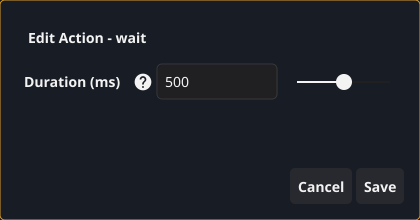
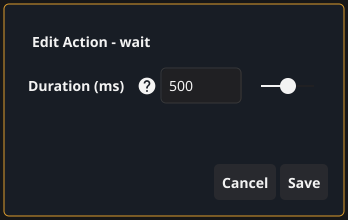
docs: expand README with action dialog screenshots
Regenerate UI doc images and document each action type's edit panel in the
README. Seed demo program data for doc UI tests.

diff --git a/internal/testsupport/docui.go b/internal/testsupport/docui.go
@@ -1,6 +1,7 @@
 package testsupport
 
 import (
+	"Sqyre/internal/config"
 	"Sqyre/internal/models"
 	"Sqyre/internal/models/actions"
 	"Sqyre/internal/models/repositories"
@@ -49,6 +50,21 @@ func InitDocUIEnv(t *testing.T) {
 
 	demoProgram := programRepo.New()
 	demoProgram.Name = "Demo Program"
+	demoProgram.Items["demo-item"] = &models.Item{
+		Name:     "demo-item",
+		GridSize: [2]int{1, 1},
+		StackMax: 1,
+	}
+	if coords := demoProgram.Coordinates[config.MainMonitorSizeString]; coords != nil {
+		coords.Points["center"] = &models.Point{Name: "center", X: 500, Y: 300}
+		coords.SearchAreas["Main area"] = &models.SearchArea{
+			Name:    "Main area",
+			LeftX:   100,
+			TopY:    100,
+			RightX:  900,
+			BottomY: 600,
+		}
+	}
 	if err := programRepo.Set("Demo Program", demoProgram); err != nil {
 		t.Fatalf("set demo program: %v", err)
 	}

diff --git a/README.md b/README.md
@@ -47,9 +47,20 @@ Screenshots and GIFs are generated from automated UI tests. Regenerate with:
 
 ![Sqyre main screen](docs/images/main-window.png)
 
-### Wait action dialog
+### Add action picker
 
-![Sqyre wait action dialog](docs/images/action-dialog-wait.png)
+![Sqyre add action picker](docs/images/add-action-picker.png)
+
+### Action dialogs
+
+Each action type has its own edit panel:
+
+| Category | Actions |
+|----------|---------|
+| Mouse & Keyboard | [Move](docs/images/action-dialog-move.png) · [Click](docs/images/action-dialog-click.png) · [Key](docs/images/action-dialog-key.png) · [Type](docs/images/action-dialog-type.png) |
+| Detection | [Image Search](docs/images/action-dialog-imagesearch.png) · [OCR](docs/images/action-dialog-ocr.png) · [Find pixel](docs/images/action-dialog-findpixel.png) |
+| Variables | [Set](docs/images/action-dialog-setvariable.png) · [Calculate](docs/images/action-dialog-calculate.png) · [Read from](docs/images/action-dialog-datalist.png) · [Save to](docs/images/action-dialog-savevariable.png) |
+| Miscellaneous | [Wait](docs/images/action-dialog-wait.png) · [Focus window](docs/images/action-dialog-focuswindow.png) · [Run macro](docs/images/action-dialog-runmacro.png) · [Loop](docs/images/action-dialog-loop.png) |
 
 ### Data editor
 
